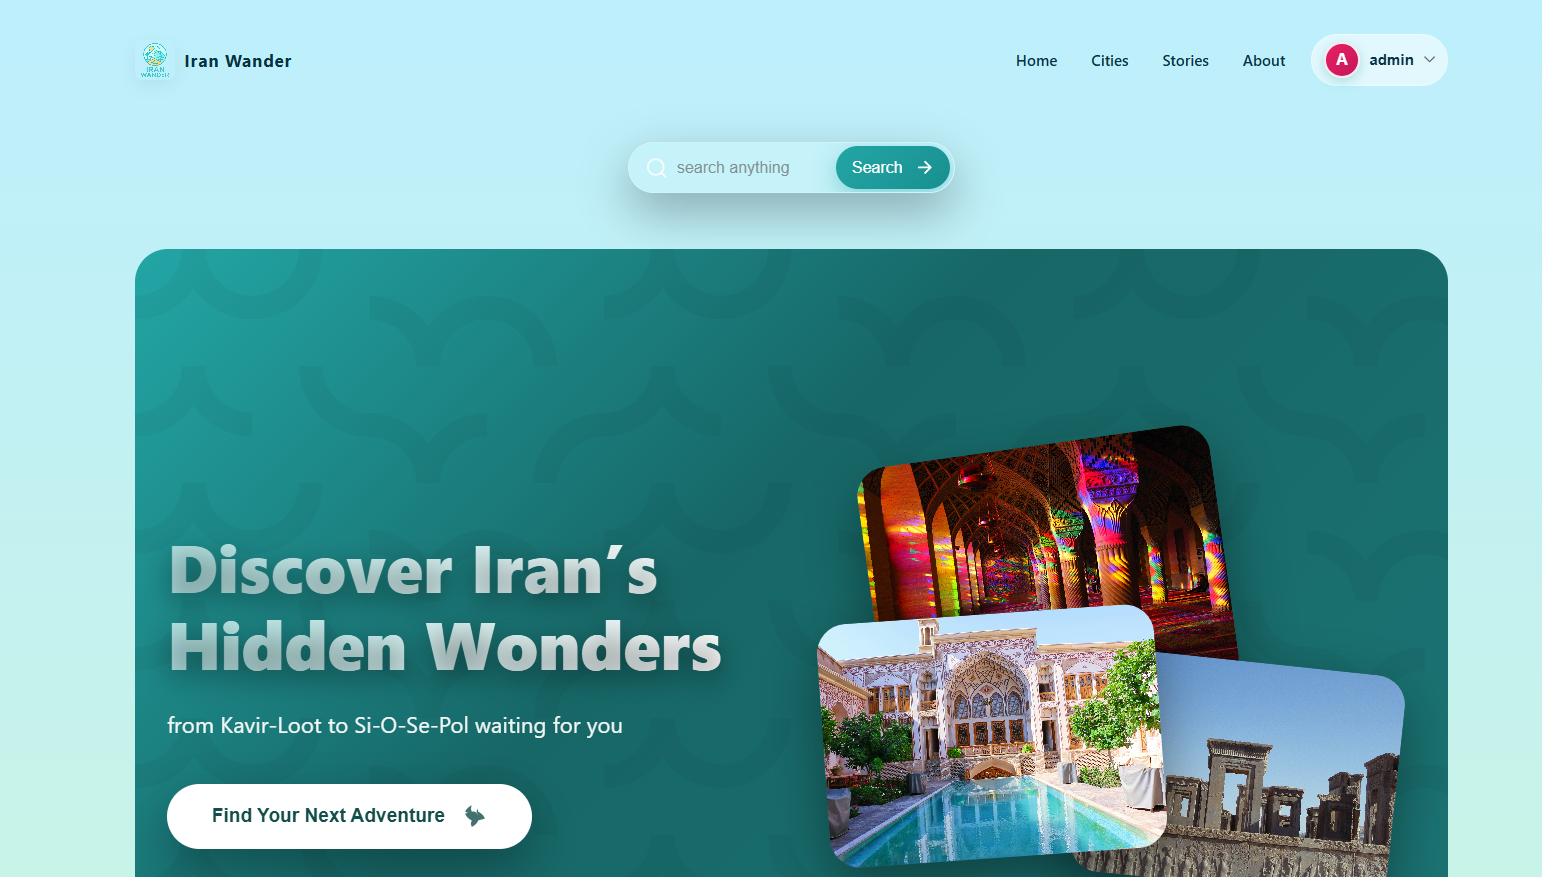
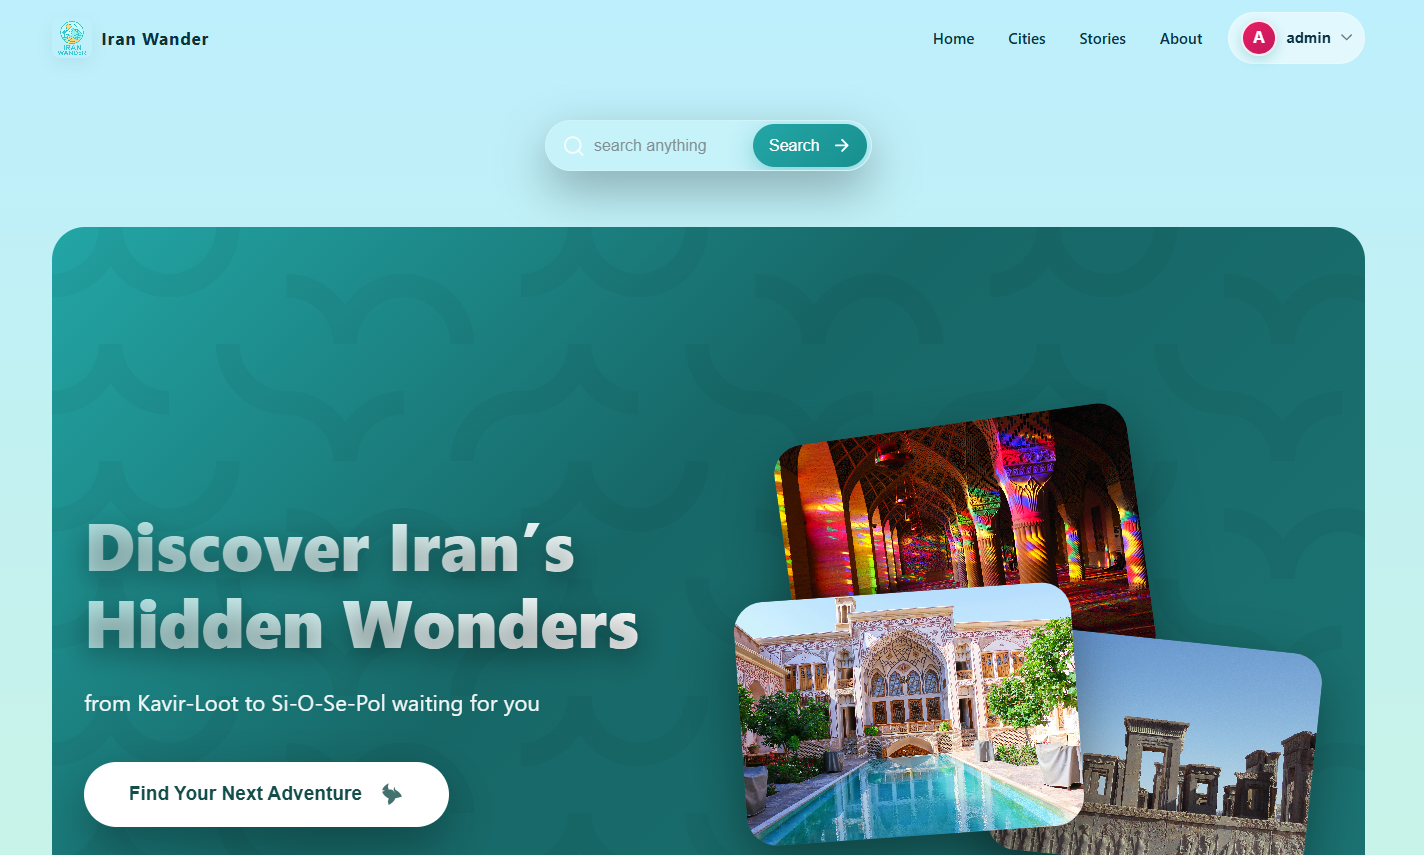
readme update

diff --git a/Readme.md b/Readme.md
@@ -17,17 +17,16 @@ The goal of this project was not only to satisfy the CS50 final requirements, bu
 
 ## Shots
 
-HomePage
+## HomePage, Cities 
 
-<img src="readme/01.png" width="500" />
+<img src="readme/01.png" width="500" /> <img src="readme/02.png" width="500" />
 
-Cities 
+## User panel 
 
-<img src="readme/02.png" width="500" />
+<div align="center">
+  <img src="readme/03.jpg" width="500">
+</div>
 
-User panel 
-
-<img src="readme/03.jpg" width="500" />
 
 ## Technology Stack & Rationale
 
